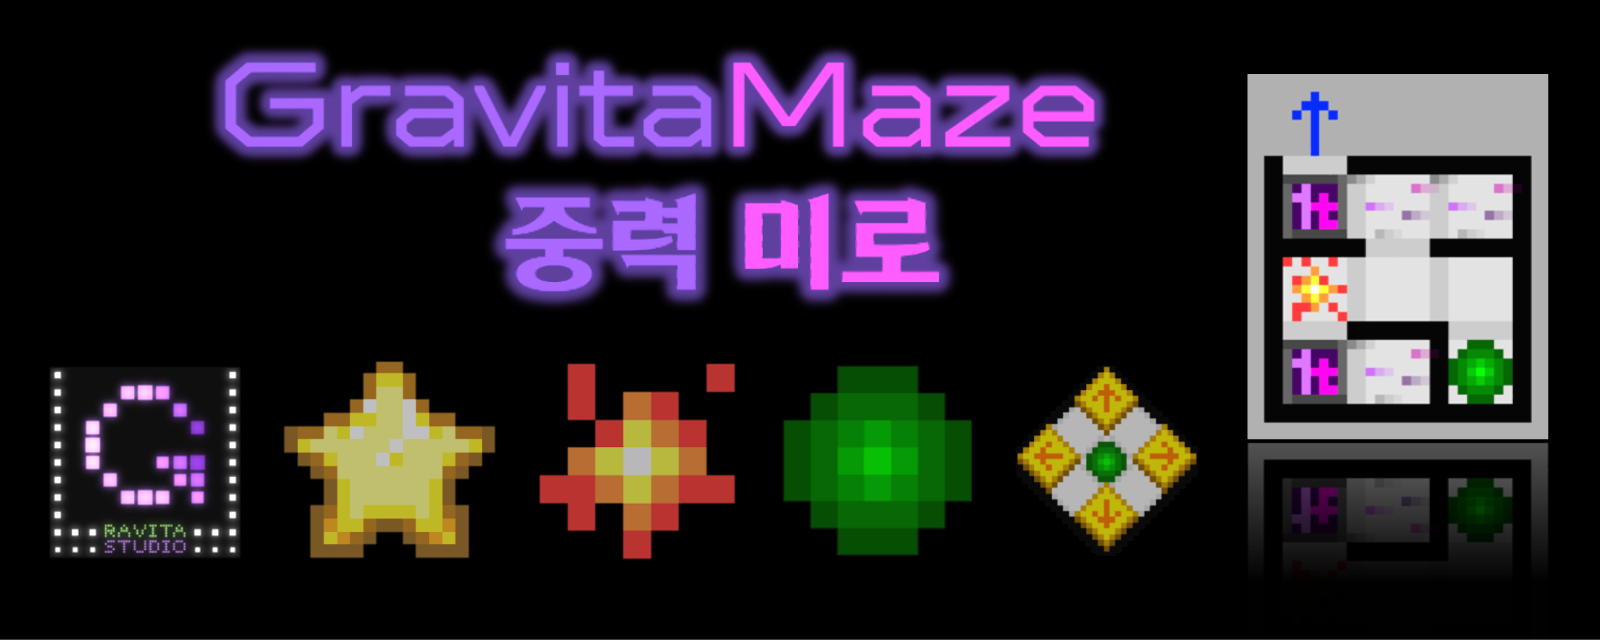
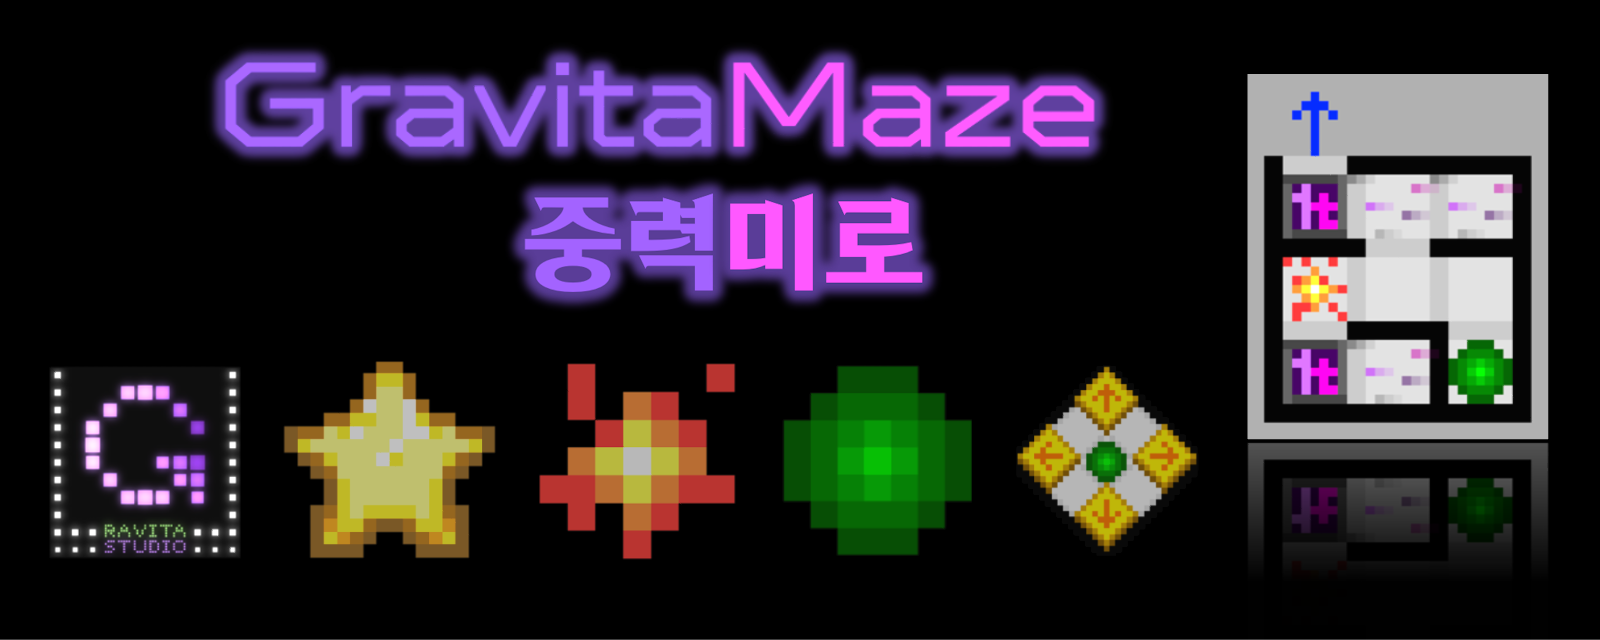
android setting and update README

Changed region(s): [[0.2812, 0.2812, 0.5938, 0.5]]

diff --git a/README.ko.md b/README.ko.md
@@ -3,7 +3,7 @@
 [![English](https://img.shields.io/badge/lang-English-red.svg)](./README.md)  
 [![한국어](https://img.shields.io/badge/lang-한국어-blue.svg)](./README.ko.md)
 
-[![Version badge](https://img.shields.io/badge/Version-1.4.2-purple.svg)](https://github.com/salt26/gravita-maze/releases/tag/v1.4.2)  
+[![Version badge](https://img.shields.io/badge/Version-1.4.3-purple.svg)](https://github.com/salt26/gravita-maze/releases/tag/v1.4.3)  
 [![Licence](https://img.shields.io/badge/License-MIT-green.svg)](./LICENSE)  
 ![Unity](https://img.shields.io/badge/unity-%23000000.svg?style=for-the-badge&logo=unity&logoColor=white)  
 ![GitHub Actions](https://img.shields.io/badge/github%20actions-%232671E5.svg?style=for-the-badge&logo=githubactions&logoColor=white)
@@ -25,7 +25,7 @@
 
 ## 다운로드
 
-### [v1.4.2 for Android, Windows, and macOS](https://github.com/salt26/gravita-maze/releases/tag/v1.4.2)
+### [v1.4.3 for Android, Windows, and macOS](https://github.com/salt26/gravita-maze/releases/tag/v1.4.3)
 
 ---
 
@@ -34,9 +34,37 @@
 <details>
 <summary>여기를 클릭하면 과거 업데이트 내용을 표시하거나 숨길 수 있습니다.</summary>
 
+### 업데이트 (v1.4.2 -> v1.4.3)
+
+* 한국어 게임 타이틀을 "중력 미로"에서 "중력미로"로 변경. 영어 게임 타이틀은 그대로 "GravitaMaze".
+* 튜토리얼에 제한시간이 짧은 9번째 맵 추가: 두 번 시간 초과된 후에는 제한시간 연장
+* 사망 시 중력이 작용하여 물체가 움직이는 애니메이션 추가
+* 남은 제한시간에 따라 타이머 바의 색상 변화
+* 게임의 음량 및 언어 설정이 게임을 재시작해도 유지됨
+* macOS 단축키 변경: `Option+Space`, `Option+Enter` 사용 (Windows에서는 각각 `Ctrl+Space`, `Ctrl+Enter`)
+* Custom에 들어갈 때 맵 파일이 제대로 표시되지 않는 버그 해결
+* 일시정지 창이 떠 있는 상태에서도 키보드를 통한 중력 조작 및 되돌리기가 가능했던 버그 해결
+* 툴팁 및 버튼 관련 버그 해결
+* 언어 설정 시 "Korean" 대신 "한국어"로 표시되도록 변경
+* 언어 설정 드롭다운 UI 수정
+* 번역 문구 일부 수정
+* 크레딧 문구 수정
+* 유니티 버전 업그레이드
+* 라이선스 업데이트
+
+### 업데이트 (v1.4.1 -> v1.4.2)
+
+* PC 플랫폼에서 각종 버튼에 호버 시 툴팁 표시
+* PC 플랫폼에서 시간 되돌리기를 Ctrl + Space, 시간 초과 시 다음으로 버튼을 Ctrl + Enter로 누를 수 있음
+  * 이 역시도 버튼 호버 시 PC 한정 툴팁 표시
+* 튜토리얼에서 몇 가지 안내 문구 수정
+* v1.4.1에서 종종 프로그램이 멈추는 치명적인 문제 해결
+* 릴리즈 문서 한글 버전 제공
+* GitHub 릴리즈 문서에 팬트리, 유튜브 등 최신 소식을 받아볼 수 있는 링크 추가
+
 ### 업데이트 (v1.4.0 -> v1.4.1)
 
-> 중요: v1.4.1에는 게임이 진행되지 않는 치명적인 버그가 있습니다. v1.4.2를 다운로드하시기 바랍니다.
+> 중요: v1.4.1에는 게임이 진행되지 않는 치명적인 버그가 있습니다. v1.4.2 이후 버전을 다운로드하시기 바랍니다.
 
 * 현지화 (영어 및 한국어)
 * 글꼴 변경
@@ -209,8 +237,8 @@
 
 ### Android
 
-* [여기를 클릭!](https://github.com/salt26/gravita-maze/releases/tag/v1.4.2)
-* `GravitaMaze.v1.4.2.a.zip`을 Android 스마트폰에 다운로드해서 압축 해제한 후, `GravitaMaze.apk`를 실행해서 설치를 진행하세요.
+* [여기를 클릭!](https://github.com/salt26/gravita-maze/releases/tag/v1.4.3)
+* `GravitaMaze.v1.4.3.a.zip`을 Android 스마트폰에 다운로드해서 압축 해제한 후, `GravitaMaze.apk`를 실행해서 설치를 진행하세요.
   * `출처를 알 수 없는 앱 설치` 창이 나오면, `무시하고 설치`를 선택하세요.
   * Google Play Protect에서 `안전하지 않은 앱 차단됨` 창이 나오는 경우 ***확인 버튼을 누르지 말고*** `세부정보 더 보기 -> 무시하고 설치하기`를 선택하세요.
   * `Google에 알 수 없는 앱 전송`과 관련한 메시지가 뜨는 경우가 있을 수도 있어요. 이 경우 무슨 옵션을 선택해도 상관 없어요.
@@ -221,14 +249,14 @@
 
 ### Windows
 
-* [여기를 클릭!](https://github.com/salt26/gravita-maze/releases/tag/v1.4.2)
-* `GravitaMaze.v1.4.2.w.zip`을 다운로드한 후 압축 해제하세요.
+* [여기를 클릭!](https://github.com/salt26/gravita-maze/releases/tag/v1.4.3)
+* `GravitaMaze.v1.4.3.w.zip`을 다운로드한 후 압축 해제하세요.
 * `GravitaMaze.exe`를 실행하세요.
 
 ### macOS
 
-* [여기를 클릭!](https://github.com/salt26/gravita-maze/releases/tag/v1.4.2)
-* `GravitaMaze.v1.4.2.m.zip`을 다운로드한 후 압축 해제하세요.
+* [여기를 클릭!](https://github.com/salt26/gravita-maze/releases/tag/v1.4.3)
+* `GravitaMaze.v1.4.3.m.zip`을 다운로드한 후 압축 해제하세요.
 * `GravitaMaze.app`을 실행하세요.
 
 ## 맵 편집기

diff --git a/README.md b/README.md
@@ -3,7 +3,7 @@
 [![English](https://img.shields.io/badge/lang-English-red.svg)](./README.md)  
 [![한국어](https://img.shields.io/badge/lang-한국어-blue.svg)](./README.ko.md)
 
-[![Version badge](https://img.shields.io/badge/Version-1.4.2-purple.svg)](https://github.com/salt26/gravita-maze/releases/tag/v1.4.2)  
+[![Version badge](https://img.shields.io/badge/Version-1.4.3-purple.svg)](https://github.com/salt26/gravita-maze/releases/tag/v1.4.3)  
 [![Licence](https://img.shields.io/badge/License-MIT-green.svg)](./LICENSE)  
 ![Unity](https://img.shields.io/badge/unity-%23000000.svg?style=for-the-badge&logo=unity&logoColor=white)  
 ![GitHub Actions](https://img.shields.io/badge/github%20actions-%232671E5.svg?style=for-the-badge&logo=githubactions&logoColor=white)
@@ -25,7 +25,7 @@
 
 ## Download
 
-### [v1.4.2 for Android, Windows, and macOS](https://github.com/salt26/gravita-maze/releases/tag/v1.4.2)
+### [v1.4.3 for Android, Windows, and macOS](https://github.com/salt26/gravita-maze/releases/tag/v1.4.3)
 
 ---
 
@@ -34,9 +34,37 @@
 <details>
 <summary>Click here to expand or collapse the old update logs!</summary>
 
+### Updates (v1.4.2 -> v1.4.3)
+
+* Add a ninth map with a short time limit to the tutorial: extend the time limit after two timeouts.
+* Add animation of objects moving due to gravity when the player dies.
+* Change the color of the timer bar according to the remaining time.
+* Preserve the volume and language settings of the game even after restarting.
+* Change macOS shortcuts to use `Option+Space` and `Option+Enter` (on Windows, use `Ctrl+Space` and `Ctrl+Enter`, respectively).
+* Fix the bug where the map file is not displayed correctly when entering the Custom mode.
+* Fix the bug where gravity manipulation and retry were possible via keyboard while the pause window is open.
+* Fix tooltip and button-related bugs.
+* Change the game title in Korean from "중력 미로" to "중력미로". The English title remains the same as "GravitaMaze".
+* Change the display of "Korean" to "한국어" in the language settings.
+* Change the dropdown UI in the language settings.
+* Make some modifications to the localized text.
+* Modify the credit text.
+* Upgrade the Unity version.
+* Update the license.
+
+### Updates (v1.4.1 -> v1.4.2)
+
+* Show tooltips on various buttons when hovering on the PC platform.
+* On the PC platform, use Ctrl + Space for "retry with time refill" and Ctrl + Enter to proceed when time runs out
+  * Show PC-specific tooltips when hovering over these buttons.
+* Modify some guiding texts in the tutorial.
+* Resolve critical issue in v1.4.1 where the program occasionally freezes.
+* Provide a Korean version of the release document.
+* Add links to Fantrie, YouTube, and other latest news on the GitHub release document.
+
 ### Updates (v1.4.0 -> v1.4.1)
 
-> Important: v1.4.1 has a critical bug! Please download v1.4.2.
+> Important: v1.4.1 has a critical bug! Please download v1.4.2 or later.
 
 * Localization (English and Korean)
 * Change fonts.
@@ -209,8 +237,8 @@
 
 ### Android
 
-* Click [here](https://github.com/salt26/gravita-maze/releases/tag/v1.4.2)!
-* Download `GravitaMaze.v1.4.2.a.zip` on your Android phone, unzip it, and execute `GravitaMaze.apk` to install it.
+* Click [here](https://github.com/salt26/gravita-maze/releases/tag/v1.4.3)!
+* Download `GravitaMaze.v1.4.3.a.zip` on your Android phone, unzip it, and execute `GravitaMaze.apk` to install it.
   * When the `Install unknown app` message appears, choose `Ignore and install`
   * If Google Play Protect shows `Blocked by Play Protect` message, ***DO NOT CLICK OK MESSAGE***. Instead, click `Details -> Install anyway (unsafe)`.
   * `Send app for scanning?` message might appear. You can choose whatever option you want.
@@ -221,14 +249,14 @@
 
 ### Windows
 
-* Click [here](https://github.com/salt26/gravita-maze/releases/tag/v1.4.2)!
-* Download `GravitaMaze.v1.4.2.w.zip` and unzip it.
+* Click [here](https://github.com/salt26/gravita-maze/releases/tag/v1.4.3)!
+* Download `GravitaMaze.v1.4.3.w.zip` and unzip it.
 * Execute `GravitaMaze.exe`.
 
 ### macOS
 
-* Click [here](https://github.com/salt26/gravita-maze/releases/tag/v1.4.2)!
-* Download `GravitaMaze.v1.4.2.m.zip` and unzip it.
+* Click [here](https://github.com/salt26/gravita-maze/releases/tag/v1.4.3)!
+* Download `GravitaMaze.v1.4.3.m.zip` and unzip it.
 * Execute `GravitaMaze.app`.
 
 ## Map Editor
